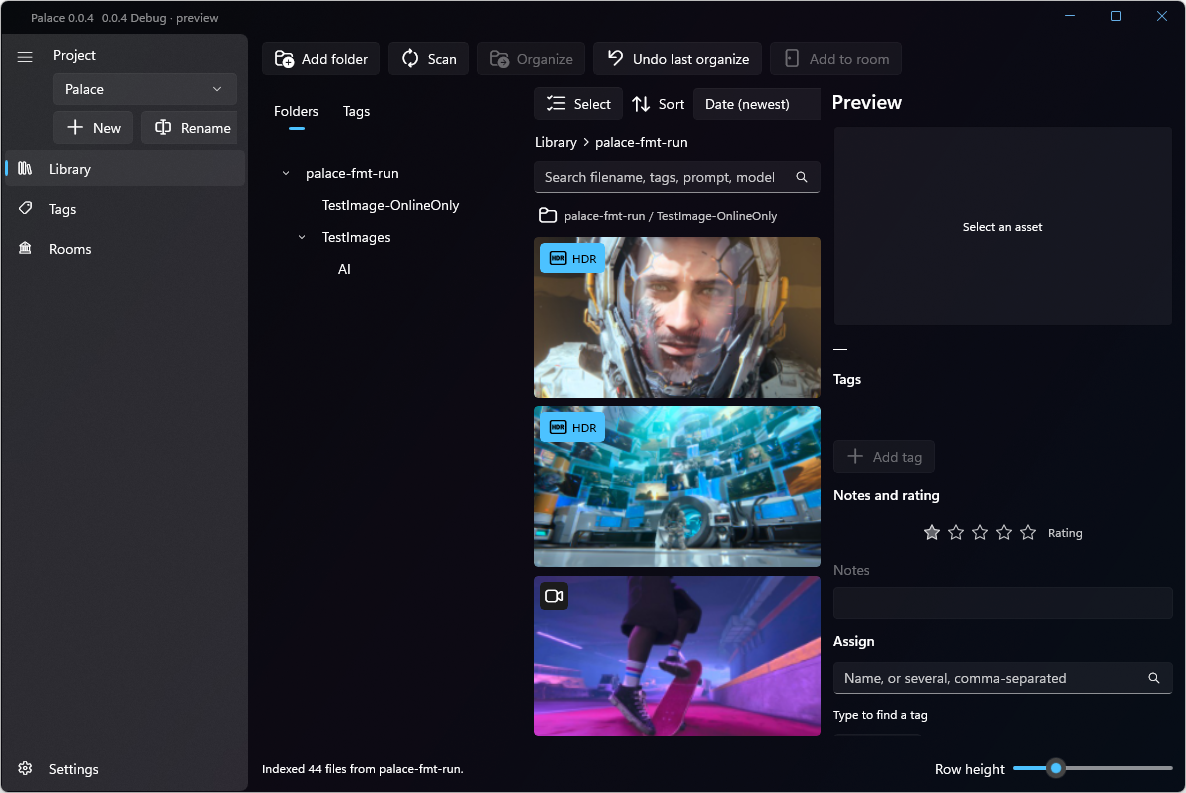
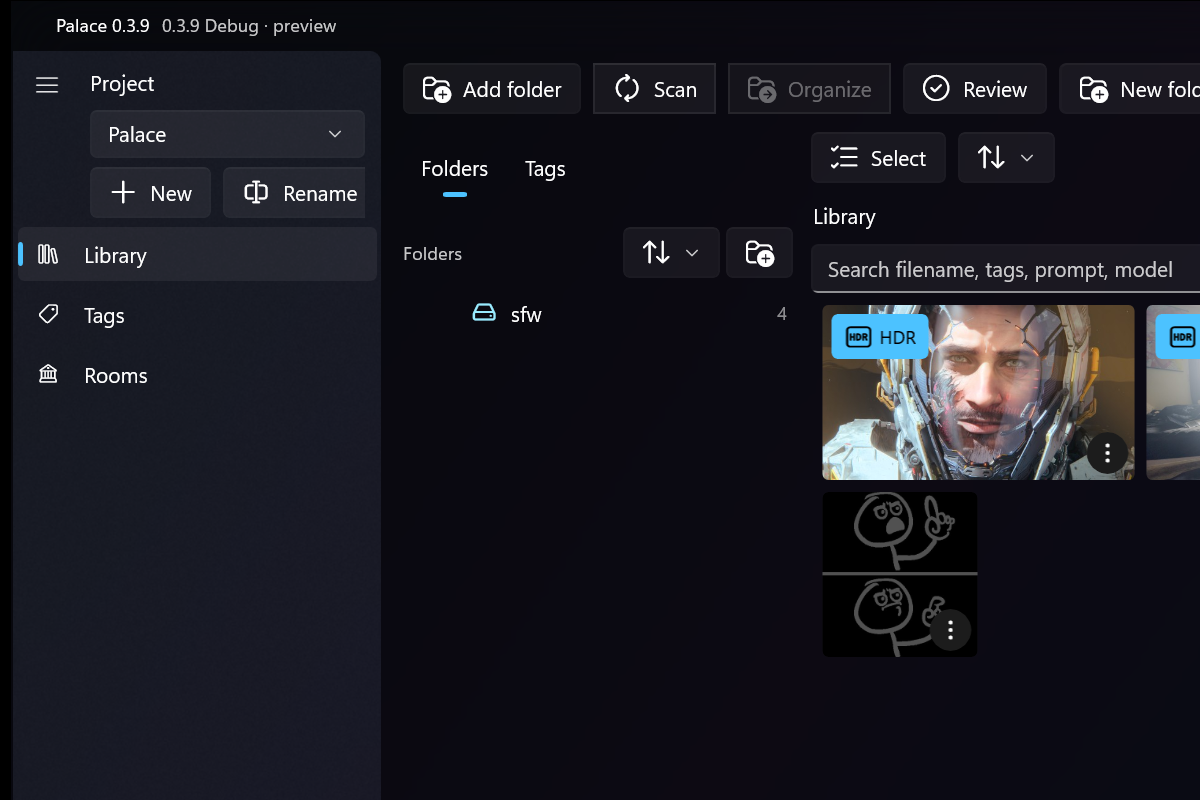
docs: refresh README for 0.3.9 + imaging rewrite (#141)
* docs: refresh README for 0.3.9 and imaging rewrite

Update status, features (Settings, viewer, touch/Review), packaged
Debug / BuildAndRun.ps1, and P0–P2 vs pending P3+/P4–P5 imaging state.

* docs: Doktor follow-ups for README refresh (#141)

Link hdr-sdr-tuning.md; note Prepare-TestIdentity patches the
manifest in place (restore before commit); update AGENTS roadmap
now that long-press select and Review swipe have shipped.

Screenshots (library.png / tags.png) still need a Windows re-shoot
for 0.3.9 chrome and neutral tag names — see media/readme-refresh.

* docs(images): re-shoot README library/tags at 0.3.9

Replace stale 0.0.4 chrome screenshots. Tags board uses neutral names
(Character/Style/Location/…) — no Grok* labels. Captured on tip
9dfb44c with PalaceReadme-141A packaged Debug.

* docs: Doktor nits — test-identity restore wording + image alts

Clarify that restoring Package.appxmanifest keeps the test identity
out of commits. Tighten library/tags/hdr-preview alt text for crops.

* docs: finish Doktor nits — test-identity wording + remaining alts

Complete the manifest restore clarification (test identity must not
be committed) and update tags/hdr-preview alt text for tighter crops.

* docs(images): re-shoot hdr-preview.jpg at 0.3.9

Doktor nit (2): replace stale HDR viewer screenshot so chrome matches
library/tags (0.3.9 Debug). Captured Fit + HDR on sample.exr with
PalaceReadme-141B packaged Debug after tip f65d7f5.

---------

diff --git a/README.md b/README.md
@@ -4,24 +4,26 @@ Palace is a Windows app for managing images, references and game assets. Your fi
 
 It is built with WinUI 3 and the Windows App SDK, with SQLite (FTS5) as the catalog index. The name comes from the "mind palace" idea: the **Library** is the catalog, and **Rooms** will be moodboards and mind maps.
 
-> **Status: 0.0.4, early public preview.** The Library (browsing, previews, tags, watched folders, search) is the focus right now. Rooms, on-disk organization and cloud support exist but are early.
+> **Status: 0.3.9** (Settings restructure milestone). The Library — browsing, previews, tags, watched folders, search, and the gallery viewer — is the focus. Rooms, on-disk organization and cloud support exist but are early.
 
-![Library view with watched folders, the thumbnail mosaic and the side panel](docs/images/library.png)
+![Library: folder tree and mosaic with HDR-badged thumbnails](docs/images/library.png)
 
 ## Features
 
 - **Projects.** Each project has its own library of watched folders. Switch or create projects from the sidebar.
 - **Watched folders.** Add a folder and Palace scans it and keeps it up to date as files change. Files are never moved or copied unless you ask.
-- **Library mosaic.** A thumbnail grid with adjustable row height, grouped by subfolder, plus a full-screen gallery/overlay viewer for images, GIFs and video.
+- **Library mosaic.** A thumbnail grid with adjustable row height, grouped by subfolder, plus a full-screen gallery/overlay viewer for images, GIFs and video. Long-press or select mode for multi-select and batch actions.
+- **Viewer.** Overlay and separate Gallery window with Fit / 1:1 / Fill, Details card, volume control, GIF frame scrub, and touch gestures (including swipe next/prev and Review mode keep / reject / skip).
 - **Search.** Full-text search over file names, tags, prompts and model metadata.
 - **Global tags.** Tags are shared across all projects. Tags can be grouped and nested, filtered with Any / All / None, starred and colored.
 - **Implied tags.** Give a tag implications so that assigning it also applies the implied tags automatically.
 - **Tag export and import.** Back up your tag set as JSON from Settings and merge it back in later.
-- **HDR.** HDR files are detected and badged, presented in HDR on HDR displays, and tone-mapped for thumbnails. Supported HDR kinds include Ultra HDR JPEG, HDR PNG, HDR AVIF/HEIF, JPEG XR, JPEG XL and Radiance `.hdr`.
+- **Settings.** Two-pane Settings with search: Appearance (accent, density, glass backgrounds), Library & Folders, Viewer, Tags & Rooms, Input, Performance, and About.
+- **HDR.** HDR files are detected and badged, presented in HDR on HDR displays, and tone-mapped for SDR. Supported kinds include Ultra HDR JPEG, HDR PNG, HDR AVIF/HEIF, JPEG XR, JPEG XL, OpenEXR and Radiance `.hdr`. A shared `Palace.Imaging` pipeline (normalize → tone-map) is landing in phases — see [Imaging rewrite](#imaging-rewrite).
 - **Durable catalog.** The catalog lives outside the app package, so reinstalling Palace does not wipe your projects and tags (see [Where your data lives](#where-your-data-lives)).
 - **Early features:** Rooms (create rooms and pin assets into sectioned grids), dry-run and optional auto organize with undo, Recycle Bin delete, and Dropbox / OneDrive "online-only" files without mass re-downloading.
 
-![Tags page with tag groups and an implied tag](docs/images/tags.png)
+![Tags board: groups list and alphabet chips (Character selected)](docs/images/tags.png)
 
 ### Supported formats
 
@@ -33,7 +35,22 @@ It is built with WinUI 3 and the Windows App SDK, with SQLite (FTS5) as the cata
 
 EXR, TGA, ICO, PSD/PSB, JPEG XL and Clip Studio files are decoded by Palace itself, so they don't need extra Windows codecs. Files with an image extension that aren't really images get a placeholder tile. Video thumbnails that Windows can't make itself (for example MKV with H.264 4:4:4, or WebM/AV1 without the Store codec extensions) come from a small bundled LGPL ffmpeg.
 
-![HDR image in the full-screen viewer](docs/images/hdr-preview.jpg)
+![Gallery overlay: HDR still with Details card and tonemap chrome](docs/images/hdr-preview.jpg)
+
+### Imaging rewrite
+
+Palace is migrating still decode and present onto a pure `Palace.Imaging` library (BT.2020 linear working space, 1.0 = 203 nits, Option A tone-map). Progress:
+
+| Phase | Status |
+| --- | --- |
+| **P0** | Landed — stopgap freeze of the old present path |
+| **P1** | Landed — `Palace.Imaging` + unit tests (no UI) |
+| **P2** | Landed — still decoders → `NormalizedFrame` (+ small follow-ups) |
+| **P3+** | Pending — thumbs / full-view flags |
+| **P4–P5** | Pending — SDR full view, then HDR present + HLSL |
+| **P6–P7** | Later — delete legacy path; gain maps / desat engagement |
+
+Until P4–P5 land, the gallery still uses the existing present path for full view. See [`docs/hdr-sdr-tuning.md`](docs/hdr-sdr-tuning.md). Agent surface: `AGENTS.md` and `.cursor/rules/gallery-hdr.mdc`.
 
 ## Requirements
 
@@ -54,11 +71,17 @@ You need:
 - [.NET 10 SDK](https://dotnet.microsoft.com/download)
 - WinApp CLI (`winget install --id Microsoft.WinAppCli`) for packaged runs
 
-Palace is a packaged app. Always run the packaged Debug build, not the raw `.exe`:
+Palace is a **packaged** WinUI 3 app. Always run the packaged **Debug** build via `BuildAndRun.ps1`, never the unpackaged `.exe` and never `WindowsPackageType=None`.
+
+For local agent / laptop runs, prepare a **test** package identity first (do **not** register over the release Identity `C20A7629-…`):
 
 ```powershell
+.\scripts\Prepare-TestIdentity.ps1 -IdentityName PalaceOrganizeTest-5E1F
+$env:PALACE_DATA_DIR = Join-Path $env:TEMP 'palace-agent-data'
 .\BuildAndRun.ps1 . --arch x64
 ```
+
+`Prepare-TestIdentity.ps1` **patches `Package.appxmanifest` in place** (Name, PhoneProductId, DisplayName) to a **test** identity. Restore that file from git or the script’s `.release-backup` **before committing** so the **test** identity is never committed. `BuildAndRun.ps1` builds and launches the packaged Debug layout under that test identity. Register the **build output** `AppxManifest.xml`, not `winapp run --no-launch` on the source manifest.
 
 The build downloads a slim, static LGPL ffmpeg (about 12 MB) for video thumbnails and packages it with the app. The download comes from this repo's GitHub releases and is checked against a pinned SHA-256 by `tools/Get-Ffmpeg.ps1`. `tools/build-ffmpeg.sh` rebuilds it from source; its license and source offer ship next to it as `ffmpeg\LICENSE.txt` and `ffmpeg\SOURCE.txt`. To build without it (shell thumbnails only):
 
@@ -79,7 +102,7 @@ dotnet build Palace.csproj -c Debug -p:Platform=x64 --no-restore
 dotnet test Palace.Tests/Palace.Tests.csproj -c Debug --no-restore
 ```
 
-The test project targets plain `net10.0`, so `dotnet test ./Palace.Tests/Palace.Tests.csproj` also runs on Linux and macOS. The WinUI app itself only builds on Windows.
+The test project and `Palace.Imaging` target plain `net10.0`, so `dotnet test ./Palace.Tests/Palace.Tests.csproj` also runs on Linux and macOS. The WinUI app itself only builds on Windows.
 
 ## Where your data lives
 
@@ -94,8 +117,9 @@ Controls/        Reusable UI controls
 ViewModels/      Page view models
 Models/          UI and data models
 Services/        Catalog, scanning, folder watching, thumbnails, HDR, cloud
-Helpers/         Format decoders (EXR, PSD, TGA, Clip, ...), HDR helpers, path rules
+Helpers/         Format decoders, gallery/HDR helpers, path rules
 Data/            SQLite database layer
+Palace.Imaging/  Pure normalize + tone-map library (net10.0; P1+)
 Palace.Tests/    Unit tests (cross-platform)
 tools/           Helper scripts (e.g. Get-Ffmpeg.ps1, build-ffmpeg.sh, openexr/)
 docs/            Design notes and README images
@@ -104,15 +128,15 @@ Assets/          App icons and package art
 
 ## Roadmap
 
-- **0.0** Per-project library and tagging, solid image and video viewing
-- **0.1** Rooms: moodboards and mind maps
-- **0.2** Game dev focus: Markdown, audio, 3D assets, Unity project folders, `.unitypackage` parsing
-- **0.3** AI-assisted tagging and organization
-- **1.0** Release and Microsoft Store
+- **0.3.x** *(now)* — Settings restructure done; Library / viewer polish (touch, Review mode, mosaic select, HDR imaging rewrite P0–P2). Next: finish imaging present (P3–P5), then 3D and audio, then Rooms moodboard.
+- **Later 0.x** — Rooms canvas, gamedev viewers, AI-assisted tagging — only when those minors are opened.
+- **1.0** — First public Microsoft Store release.
 
 ## Contributing
 
 Issues and pull requests are welcome. Before you start, read [`AGENTS.md`](AGENTS.md). It covers the versioning rules, the Library-first priority, testing expectations and what not to invent, and it applies to people and coding agents alike. Topic-specific notes live in [`.cursor/rules/`](.cursor/rules/).
+
+Docs / CI / tests-only PRs use the `no-version-bump` label (or stay on exempt paths). App-changing PRs bump `<PalaceVersion>` in `Directory.Build.props` and sync the manifest with `python3 scripts/sync-appx-version.py`.
 
 ## License
 

diff --git a/AGENTS.md b/AGENTS.md
@@ -73,7 +73,7 @@ This file is the always-loaded core. Topic rules live in `.cursor/rules/*.mdc` a
 - Thumbnails: ~2–4 concurrent decodes, lazy in viewport order, short prefetch, cancel on scroll-away, full decodes off the UI thread.
 - Accent: Follow Windows or Palace pink (`#ED9FBC` Dark, `#A14165` Light). Retint in `OnLaunched`; do not touch `Application.Resources` in the App constructor.
 - Backgrounds: 13 presets plus Default, Mica, Mica Alt, Neutral, Custom. Recent custom images kept as copies; blur / darkness per entry.
-- Roadmap: Settings **0.3.0** done; next touch (long-press select; swipe keep/reject → `_rejected`), then 3D and audio, then moodboard.
+- Roadmap: Settings **0.3.0** done; long-press select and Review swipe keep/reject (`_rejected`) have shipped (0.3.1–0.3.5). Next: finish imaging present (P3–P5), then 3D and audio, then Rooms moodboard.
 
 ## PR descriptions
 
